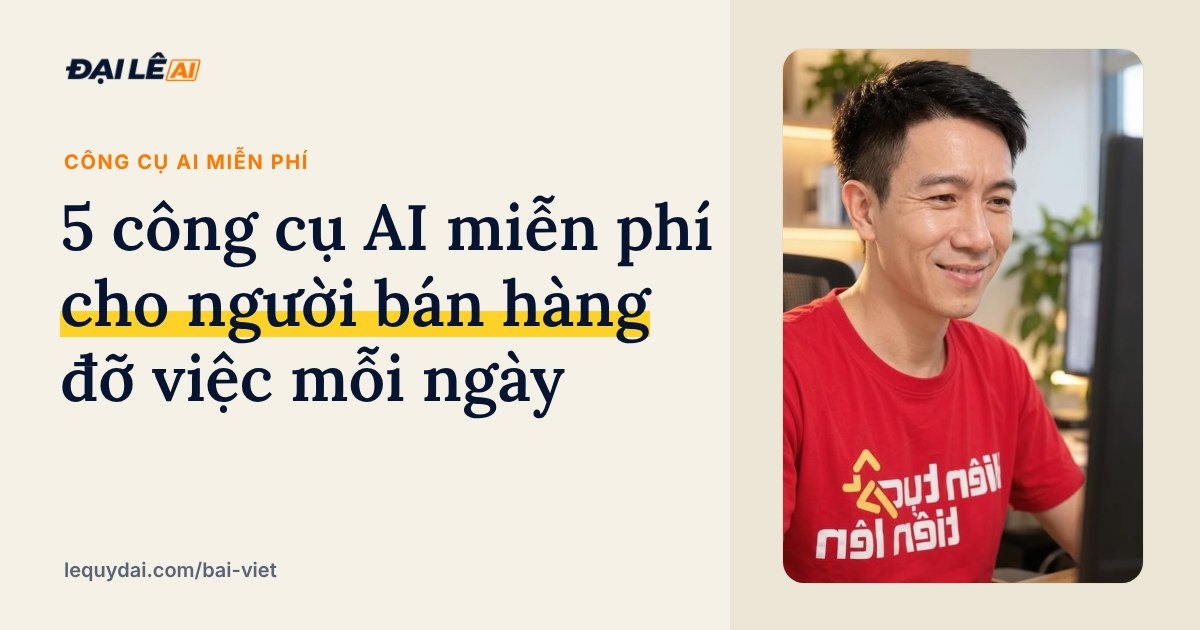
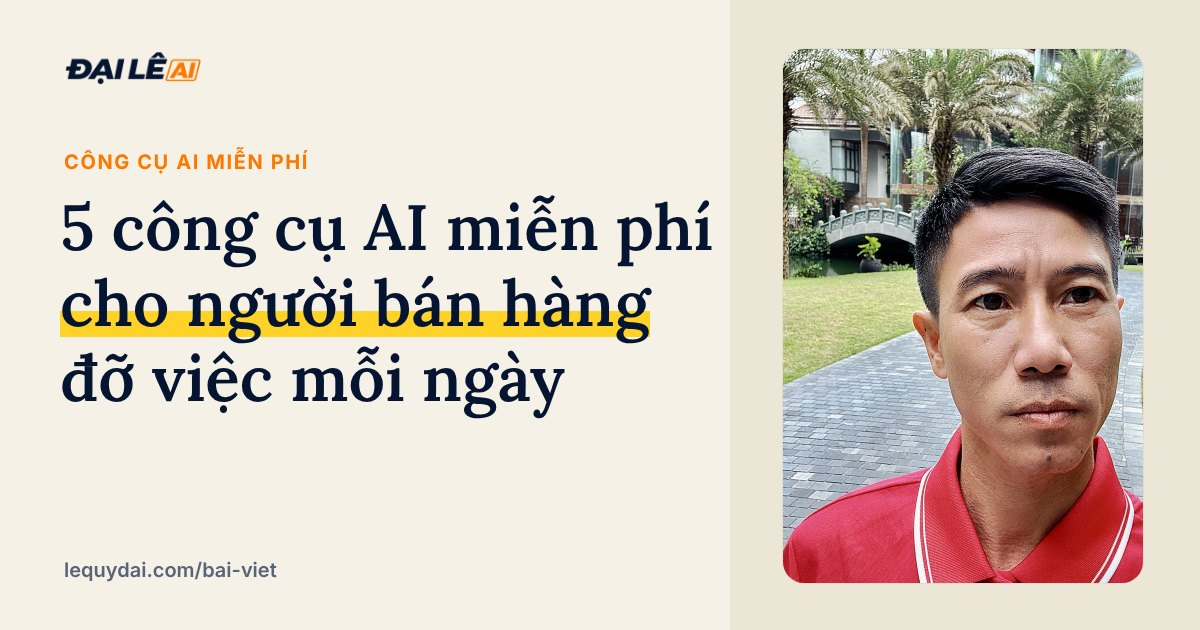
Trang chủ thêm khối Công cụ; ảnh bìa blog xoay vòng 13 ảnh thật
Claude-Session: https://claude.ai/code/session_014dVP9Fd1722thkdWURZewP

Changed region(s): [[0.6475, 0.0603, 0.9558, 0.9349]]

diff --git a/index.html b/index.html
@@ -12,7 +12,7 @@
 <link rel="icon" href="/img/cover-square.jpg?v=20261105">
 <link rel="preconnect" href="https://fonts.googleapis.com"><link rel="preconnect" href="https://fonts.gstatic.com" crossorigin>
 <link href="https://fonts.googleapis.com/css2?family=Be+Vietnam+Pro:wght@400;500;600;700&family=Source+Serif+4:opsz,wght@8..60,400;8..60,500;8..60,600&display=swap" rel="stylesheet">
-<link rel="stylesheet" href="/css/moi.css?v=3">
+<link rel="stylesheet" href="/css/moi.css?v=4">
 </head>
 <body>
 
@@ -23,7 +23,7 @@
     <nav class="menu">
       <a href="#san-pham">Sản phẩm</a>
       <a href="#khoa-hoc">Khoá học</a>
-      <a href="https://congcu.lequydai.com">Công cụ miễn phí</a>
+      <a href="#cong-cu">Công cụ</a>
       <a href="/bai-viet/">Blog</a>
       <a href="https://hoc.lequydai.com">Học viên</a>
       <a class="nut nut-nho" href="https://zalo.me/g/a9my3sx1ov0fsihenx6e">Nhóm Zalo miễn phí</a>
@@ -86,6 +86,24 @@
     </div>
   </section>
 
+  <section class="khoi nen-dam" id="cong-cu">
+    <div class="khung">
+      <div class="dau-khoi">
+        <span class="nhan">Công cụ AI · Dùng ngay</span>
+        <h2>Công cụ <span class="vet">bấm là chạy</span>, không cần học.</h2>
+        <p class="phu">Những công cụ Đại làm ra cho chính việc của mình, giờ chia sẻ lại cho bạn. 4 công cụ dùng miễn phí.</p>
+      </div>
+      <div class="luoi luoi-3">
+        <a class="the the-cc" href="https://congcu.lequydai.com/#giong"><span class="bt">🎙</span><span class="nhan" style="margin-top:12px">686.000đ · Chạy trên web</span><h3>APP GIỌNG</h3><p class="y">Dán chữ là có giọng đọc AI</p><p class="nho">Giọng nam, nữ tự nhiên cho video bán hàng, không cần thu âm, không cần lên hình.</p><span class="xem">Xem app GIỌNG →</span></a>
+        <a class="the the-cc" href="https://chu.lequydai.com"><span class="bt">🎧</span><span class="nhan" style="margin-top:12px">Miễn phí · Chạy trên web</span><h3>NÓI RA CHỮ</h3><p class="y">Ghi âm, file Zoom thành chữ</p><p class="nho">Nhận lại chữ, kịch bản, bài Facebook và biên bản họp từ một file ghi âm.</p><span class="xem">Mở công cụ →</span></a>
+        <a class="the the-cc" href="https://anh.lequydai.com"><span class="bt">🖼</span><span class="nhan" style="margin-top:12px">Miễn phí · Chạy trên web</span><h3>TÓM ẢNH</h3><p class="y">Dán đoạn văn, nhận ảnh tóm ý</p><p class="nho">Ảnh infographic rõ nét để đăng Facebook, Zalo trong vài giây.</p><span class="xem">Mở công cụ →</span></a>
+        <a class="the the-cc" href="https://congcu.lequydai.com/don-may/"><span class="bt">🧹</span><span class="nhan" style="margin-top:12px">Miễn phí · Máy Windows</span><h3>DỌN MÁY</h3><p class="y">Dọn rác máy tính trong 2 nút bấm</p><p class="nho">Không đụng tới tài liệu, ảnh, video của bạn.</p><span class="xem">Xem cách nhận →</span></a>
+        <a class="the the-cc" href="https://congcu.lequydai.com/cat-nhanh/"><span class="bt">✂</span><span class="nhan" style="margin-top:12px">Miễn phí · Máy Windows</span><h3>CẮT NHANH</h3><p class="y">Kéo thả video, cắt khoảng lặng</p><p class="nho">Tự bỏ các đoạn im lặng, video gốc giữ nguyên.</p><span class="xem">Xem cách nhận →</span></a>
+        <a class="the the-cc" href="https://congcu.lequydai.com"><span class="bt">🧰</span><span class="nhan" style="margin-top:12px">Tất cả công cụ</span><h3>XEM TẤT CẢ</h3><p class="y">NAOSO, Zalo AI, GIỌNG và công cụ miễn phí</p><p class="nho">Có video giới thiệu và hướng dẫn từng công cụ.</p><span class="xem">Vào trang công cụ →</span></a>
+      </div>
+    </div>
+  </section>
+
   <section class="khoi nen-trang" id="khoa-hoc">
     <div class="khung">
       <div class="dau-khoi">
@@ -118,7 +136,7 @@
     </div>
   </section>
 
-  <section class="khoi" id="cong-cu">
+  <section class="khoi" id="bat-dau">
     <div class="khung">
       <div class="dau-khoi">
         <span class="nhan">Chưa biết bắt đầu từ đâu?</span>

diff --git a/congcu/index.html b/congcu/index.html
@@ -11,7 +11,7 @@
 <link rel="icon" href="https://lequydai.com/img/cover-square.jpg?v=20261105">
 <link rel="preconnect" href="https://fonts.googleapis.com"><link rel="preconnect" href="https://fonts.gstatic.com" crossorigin>
 <link href="https://fonts.googleapis.com/css2?family=Be+Vietnam+Pro:wght@400;500;600;700&family=Source+Serif+4:opsz,wght@8..60,400;8..60,500;8..60,600&display=swap" rel="stylesheet">
-<link rel="stylesheet" href="https://lequydai.com/css/moi.css?v=2">
+<link rel="stylesheet" href="https://lequydai.com/css/moi.css?v=4">
 </head>
 <body>
 

diff --git a/css/moi.css b/css/moi.css
@@ -176,3 +176,4 @@ p{margin:0 0 14px}
 .ba-buoc strong{display:block;color:var(--navy);font-size:15px}
 .ba-buoc span{font-size:14px;color:var(--mo);line-height:1.45}
 @media(max-width:760px){.ba-buoc{grid-template-columns:1fr}}
+.the .xem{margin-top:auto;padding-top:12px;font-weight:700;color:var(--gach);text-decoration:none}

diff --git a/bai-viet/_bia.py b/bai-viet/_bia.py
@@ -5,6 +5,21 @@ D = os.path.dirname(os.path.abspath(__file__)); R = os.path.dirname(D)
 data = json.load(open(f'{D}/bai.json', encoding='utf-8'))
 ds = data['bai'] + data['khoa_hoc']
 chon = sys.argv[1:]
+
+# Tự chọn ảnh cho bài chưa có "anh": lấy ảnh trong img/blog dùng ít nhất, tránh ảnh vừa dùng gần đây
+import glob
+POOL = sorted(os.path.relpath(f, f'{R}/img') for f in glob.glob(f'{R}/img/blog/*.jpg'))
+def _chon_anh():
+    gan = [b.get('anh') for b in sorted(data['bai'], key=lambda b: b['iso'], reverse=True) if b.get('anh')]
+    dem = {a: gan.count(a) for a in POOL}
+    vitri = {a: (gan.index(a) if a in gan else 10**6) for a in POOL}
+    return sorted(POOL, key=lambda a: (dem[a], -vitri[a]))[0]
+_doi = False
+for b in data['bai'] + data['khoa_hoc']:
+    if not b.get('anh') and POOL:
+        b['anh'] = _chon_anh(); _doi = True
+if _doi:
+    json.dump(data, open(f'{D}/bai.json', 'w', encoding='utf-8'), ensure_ascii=False, indent=1)
 ds = [b for b in ds if b['slug'] in chon] if chon else [b for b in ds if not os.path.exists(f"{D}/anh/{b['slug']}.jpg")]
 T = '''<html><head><style>
 @font-face{font-family:L;src:url(file://%(D)s/_font/Lora-Variable.ttf)}

diff --git a/bai-viet/HUONG-DAN-DANG-BAI.md b/bai-viet/HUONG-DAN-DANG-BAI.md
@@ -13,7 +13,7 @@ Cột: A NGÀY · B CHUYÊN MỤC · C TIÊU ĐỀ · D TỪ KHÓA SEO · E BÀI
    - `phut`, `ngay` (dd/mm/yyyy), `iso` (yyyy-mm-dd)
    - `tieu_de`: viết thường như câu bình thường (không VIẾT HOA cả câu)
    - `bia`: 3 dòng cho ảnh bìa, cách nhau bằng `|`, mỗi dòng ≤ 22 ký tự, dòng 2 được tô vàng
-   - `anh`: luân phiên `dai-cuoi.jpg` / `dai-cuoi-3.jpg`
+   - `anh`: BỎ TRỐNG trường này. `_bia.py` tự chọn ảnh thật của anh Đại trong `img/blog/` (ảnh dùng ít nhất, không trùng bài gần đây) để bìa mỗi bài một ảnh khác, không nhàm. Có ảnh mới của anh thì thêm vào `img/blog/anh-XX.jpg` (dọc 720x1080, mặt nằm trọn trong khung, sáng, tươi)
    - `mo_ta`: 1–2 câu (≤ 160 ký tự), có từ khoá SEO
    - `tra_loi`: ô "Trả lời nhanh" 2–3 câu, trả lời thẳng câu hỏi của tiêu đề
    - `than`: HTML, các mục `<h2>`, đoạn `<p>` ngắn, danh sách `<ul>/<ol>`, có ví dụ cụ thể
